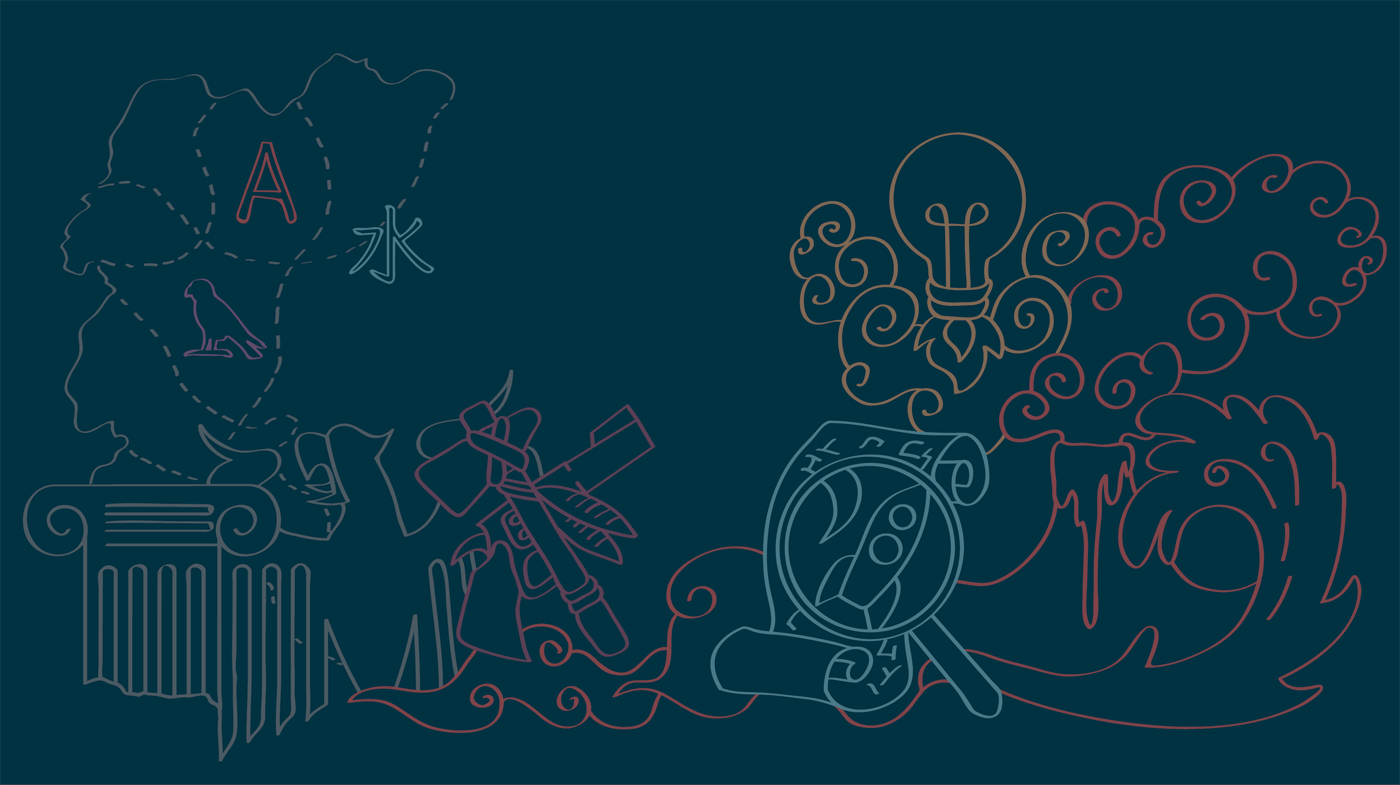
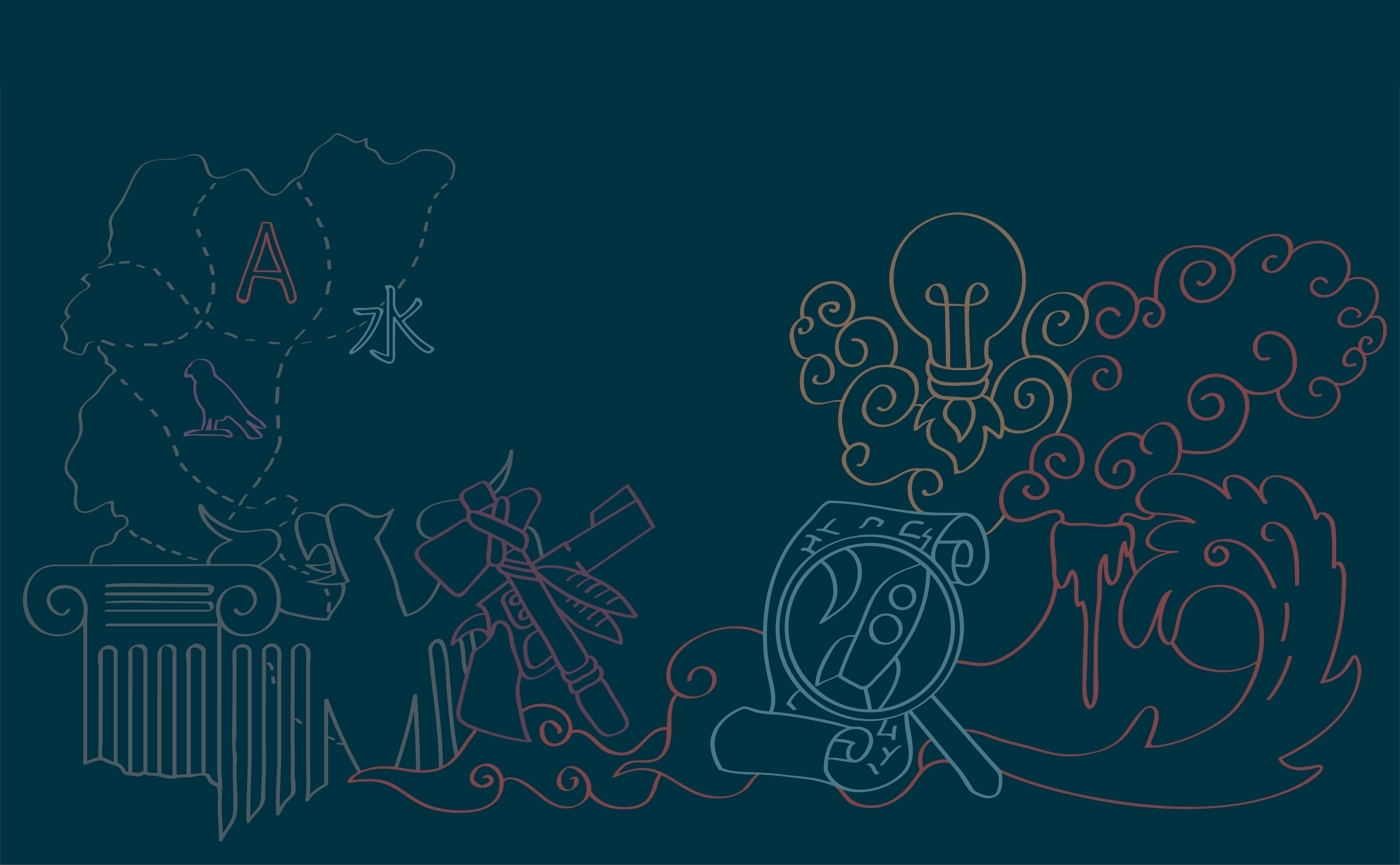
workaround mobile chrome bug with background-size, footer adjustment, some cleaning

diff --git a/client/App.less b/client/App.less
@@ -55,6 +55,8 @@ body {
   height: 100%;
   color: @base00;
   font-family: commonText, sans-serif;
+  // min-height: 100%;
+  min-height: 100vh;
 }
 
 h1 {
@@ -73,20 +75,20 @@ h3 {
 }
 
 h4 {
-  font-size: 20px;
+  font-size: 22px;
 }
 
 h5 {
-  font-size: 18px;
+  font-size: 20px;
   color: @base01;
 }
 
 h6 {
-  font-size: 16px;
+  font-size: 18px;
 }
 
 p {
-  font-size: 14px;
+  font-size: 16px;
   color: @base00;
 }
 
@@ -123,32 +125,61 @@ hr {
 }
 
 // TITLE BEGIN
+// #title {
+//   & input {height: 38px; }
+//   // height: 100%;
+//   // color: #212121;
+//   background: linear-gradient(rgba(0, 0, 0, 0.1), rgba(0, 0, 0, 0.1)), url("./images/back-progressive.jpg");
+//   // // parallax thing
+//   // background-color: #002D3B;
+//   background-repeat: no-repeat;
+//   background-attachment: fixed;
+//   background-position: center;
+//   background-size: cover;
+//   // // background-size: auto;
+//   // // background-size: 600px auto;
+//   font-weight: 300;
+//   font-family: commonText, sans-serif;
+//   -webkit-font-smoothing: antialiased;
+//   -moz-osx-font-smoothing: grayscale;
+//   // letter-spacing: 0.02em;
+//   color: @base07;
+//   font-size: 40px;
+//   padding-top: 80px;
+//   padding-bottom: 20px;
+
+//   & p { color: @base07;}
+//   & h4 {
+//     // max-width: 80%;
+//     margin: 0 3%;
+//     text-align: center;
+//   }
+// }
+
 #title {
-  & input {height: 38px; }
-  // height: 100%;
-  // color: #212121;
+  margin: 0 auto;
   background: linear-gradient(rgba(0, 0, 0, 0.1), rgba(0, 0, 0, 0.1)), url("./images/back-progressive.jpg");
-  background-color: transparent;
+  // // parallax thing
+  // background-color: #002D3B;
   background-repeat: no-repeat;
-  // parallax thing
   background-attachment: fixed;
   background-position: center;
   background-size: cover;
-  font-weight: 300;
-  font-family: commonText, sans-serif;
-  -webkit-font-smoothing: antialiased;
-  -moz-osx-font-smoothing: grayscale;
-  // letter-spacing: 0.02em;
-  color: @base07;
-  font-size: 40px;
-  padding-top: 20px;
-  padding-bottom: 20px;
-
-  & p { color: @base07;}
-  & h4 {
-    // max-width: 80%;
-    margin: 0 3%;
-    text-align: center;
+  padding-top: 80px;
+  padding-bottom: 120px;
+  & img {
+    max-width: 65%;
+    margin-bottom: 80px;
+    @media screen and (max-width: 600px) {max-width: 85%;}
+    @media screen and (min-width: 1000px) {max-width: 700px;}
+  }
+  h4 {
+    margin: 0 auto;
+    max-width: 65%;
+    text-align: justify;
+    color: @base07;
+    @media screen and (max-width: 600px) {max-width: 85%;}
+    @media screen and (min-width: 1000px) {max-width: 700px;}
   }
 }
 
@@ -311,6 +342,37 @@ textarea {
   transition: border-color ease-in-out 0.15s, box-shadow ease-in-out 0.15s;
 }
 
+button {
+  // float: right;
+  border-radius: 2px;
+  display: inline-block;
+  margin: 0 auto;
+  white-space: nowrap;
+  height: 36px;
+  border-width: 1px;
+  outline-color: transparent !important;
+  font-size: 15px;
+  // max-width: 374px;
+  width: auto;
+  min-width: 120px;
+  display: inline-block;
+  // margin-top: 12px;
+  padding: 9px 12px 10px;
+  background-color: rgba(0,0,0,.2);
+  color: #000;
+  border: 1px solid transparent;
+  overflow: hidden;
+  line-height: 1;
+  text-align: center;
+  white-space: nowrap;
+  vertical-align: bottom;
+  -webkit-transition: scale .2s ease-in-out;
+  -o-transition: scale .2s ease-in-out;
+  transition: scale .2s ease-in-out;
+  //ne nado
+  margin-right: 5px;
+}
+
 #contact {
   // margin-bottom: 80px;
   // padding-bottom: 80px;
@@ -384,3 +446,26 @@ a.active {
   color: @base01;
 }
 
+.wrapper {
+  min-height: 80vh;
+}
+
+.page {
+  padding: 96px 32px;
+  margin: 0 auto;
+  text-align: center;
+}
+
+.page--title {
+  // height: 300px;
+      padding: 32px;
+  text-align: center;
+  vertical-align: middle;
+  // line-height: 300px;
+}
+
+.page--content {
+  padding: 40px 32px;
+  // max-width: 900px;
+  text-align: center;
+}

diff --git a/client/components/Navigation/nav-router.less b/client/components/Navigation/nav-router.less
@@ -2,13 +2,27 @@
 
 /* Navbar BEGIN */
 #Navigation {
-  background: linear-gradient(rgba(0, 0, 0, 0.1), rgba(0, 0, 0, 0.1)), url("../../images/back-progressive.jpg");
-  background-color: transparent;
-  background-repeat: no-repeat;
-  // parallax thing
+  // background: linear-gradient(rgba(0, 0, 0, 0.1), rgba(0, 0, 0, 0.1)), url("../../images/back-progressive.jpg");
+  // background-color: rgba(1,55,66, 1);
+  // background-color: transparent;
+  background-color: #002D3B;
+  // position: absolute;
+
+  // top: 0;
+  // background-color: transparent;
+  background-repeat: no-repeat
+;  // // parallax thing
   background-attachment: fixed;
   background-position: center;
   background-size: cover;
+  // min-height: 100vh;
+  // background-color: transparent;
+  // // background-repeat: no-repeat;
+  // background-size: auto;
+  // parallax thing
+  // background-attachment: fixed;
+  // background-position: center;
+  // background-size: cover;
   & a:focus { background-color: none !important; }
 }
 

diff --git a/client/components/Footer/footer.less b/client/components/Footer/footer.less
@@ -2,8 +2,9 @@
 
 footer {
   width: 100%;
-  position: absolute;
-  bottom: 0;
+  // position: absolute;
+  // bottom: 0;
+  position: relative;
   margin-top: 20px;
 
   & p {
